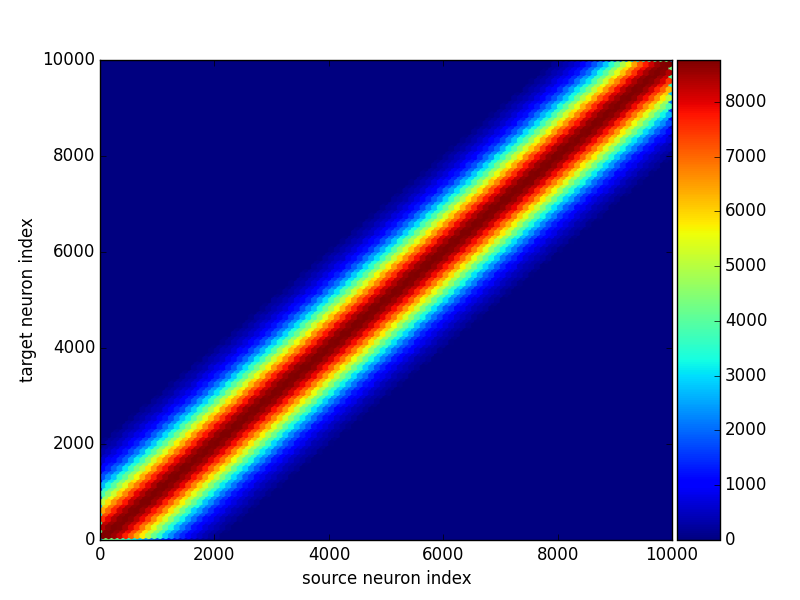
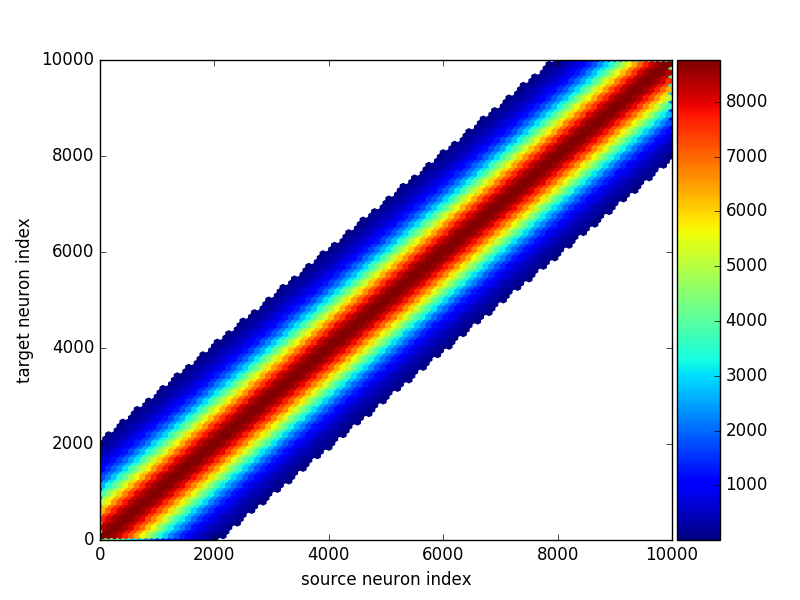
Do not plot "0 synapses" with hexbin

diff --git a/brian2tools/plotting/synapses.py b/brian2tools/plotting/synapses.py
@@ -209,7 +209,12 @@ def plot_synapses(sources, targets, values=None, var_unit=None,
                                   interpolation=interpolation,
                                   vmin=vmin, **kwds)
         elif plot_type == 'hexbin':
-            plotted = axes.hexbin(sources, targets, C=values, **kwds)
+            if values is None:  # Counting synapses
+                mincnt = kwds.pop('mincnt', 1)
+            else:
+                mincnt = kwds.pop('mincnt', None)
+            plotted = axes.hexbin(sources, targets, C=values, mincnt=mincnt,
+                                  **kwds)
 
         if values is not None or plot_type == 'hexbin':
             # Add a colorbar
